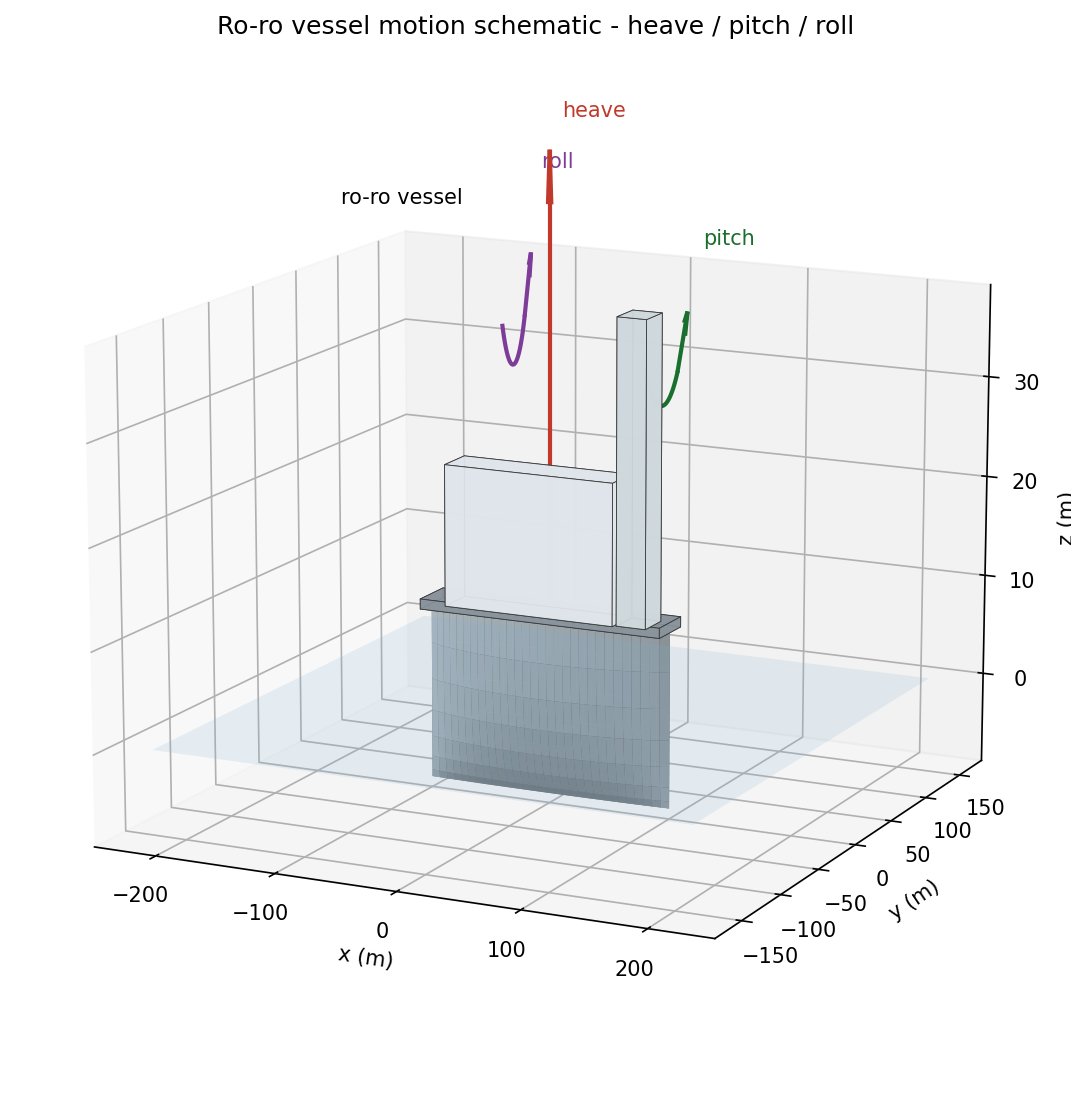
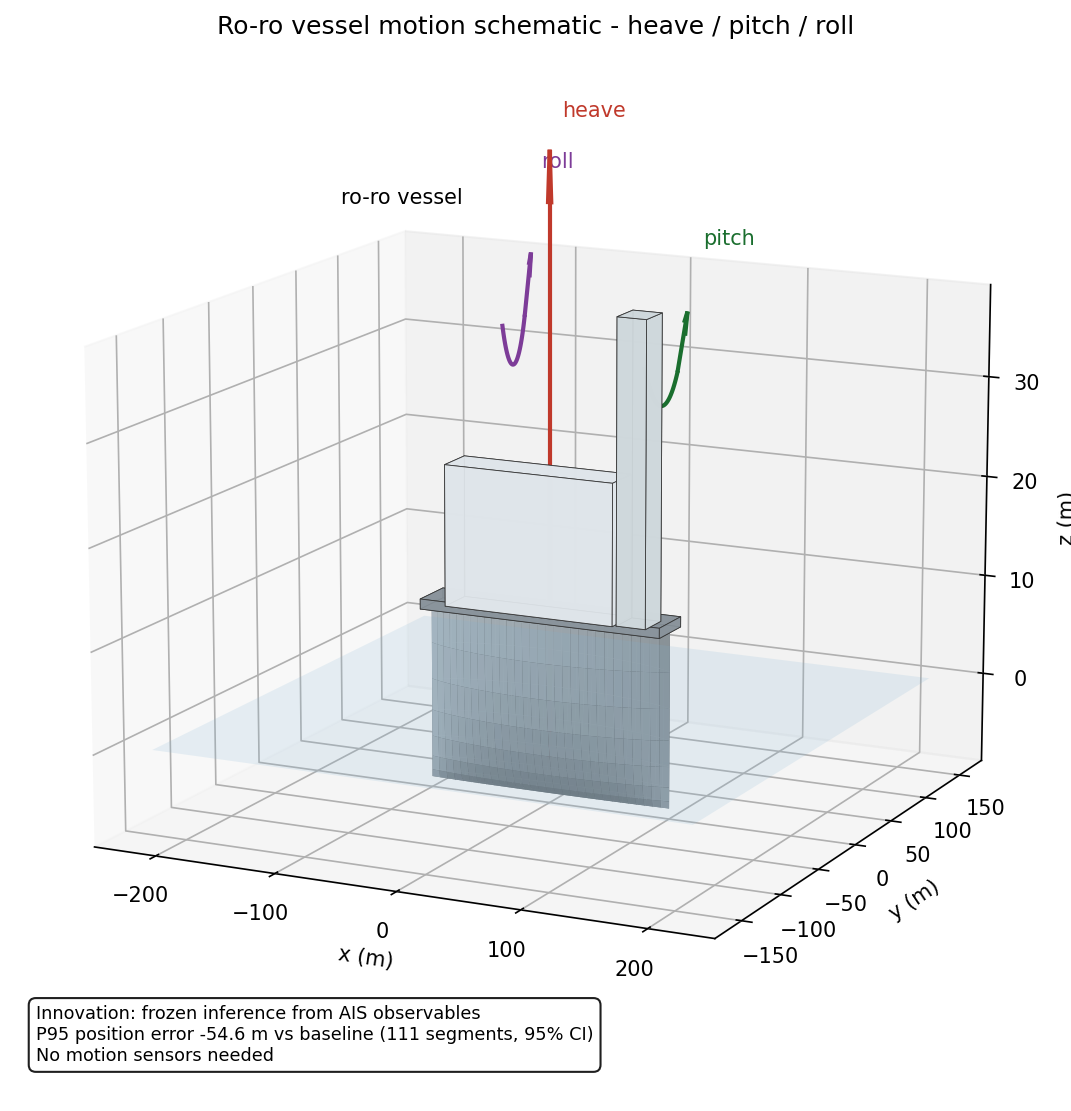
Innovation annotations on 3D figures

Changed region(s): [[0.0308, 0.8875, 0.5546, 0.9793]]

diff --git a/figures/make_3d_schematic.py b/figures/make_3d_schematic.py
@@ -92,5 +92,8 @@ ax.plot(np.zeros_like(ph)-30, 24*np.sin(ph), 34+24*(1-np.cos(ph)), color='#7d3c9
 ax.quiver(-30, 24*np.sin(0.6), 34+24*(1-np.cos(0.6)), 0, 8, 6, color='#7d3c98', lw=2, arrow_length_ratio=0.3)
 ax.text(-30, 34, 52, 'roll', fontsize=10, color='#7d3c98')
 ax.text(-95, -40, D+40, 'ro-ro vessel', fontsize=10, ha='center')
+ax.text2D(0.02, 0.03, 'Innovation: frozen inference from AIS observables\nP95 position error -54.6 m vs baseline (111 segments, 95% CI)\nNo motion sensors needed',
+    transform=ax.transAxes, fontsize=8.5, va='bottom', ha='left',
+    bbox=dict(boxstyle='round,pad=0.4', facecolor='white', alpha=0.88))
 finish(ax, str(Path(__file__).parent / 'fig3_vessel_motion_3d.png'),
        'Ro-ro vessel motion schematic - heave / pitch / roll', elev=14, azim=-64)

diff --git a/README.md b/README.md
@@ -50,7 +50,3 @@ Regenerate with `python figures/make_figures.py` (needs `matplotlib`, `pandas`, 
 ![Ro-ro vessel motion 3D schematic](figures/fig3_vessel_motion_3d.png)
 
 Schematic illustration rendered in Python (matplotlib) - not ANSYS/Fluent/STAR-CCM+ output. Regenerate with `python figures/make_3d_schematic.py` (needs `matplotlib`, `numpy`). Heave / pitch / roll are the motion components whose statistics this project predicts from AIS observables.
-
-![Innovation: frozen ridge inference from AIS observables improves P95 position error over baseline (111 segments).](figures/fig4_contrast_forest.png)
-
-*Innovation: frozen ridge inference from AIS observables improves P95 position error over baseline (111 segments). Regenerate with `python figures/make_innovation_figure.py`.*
